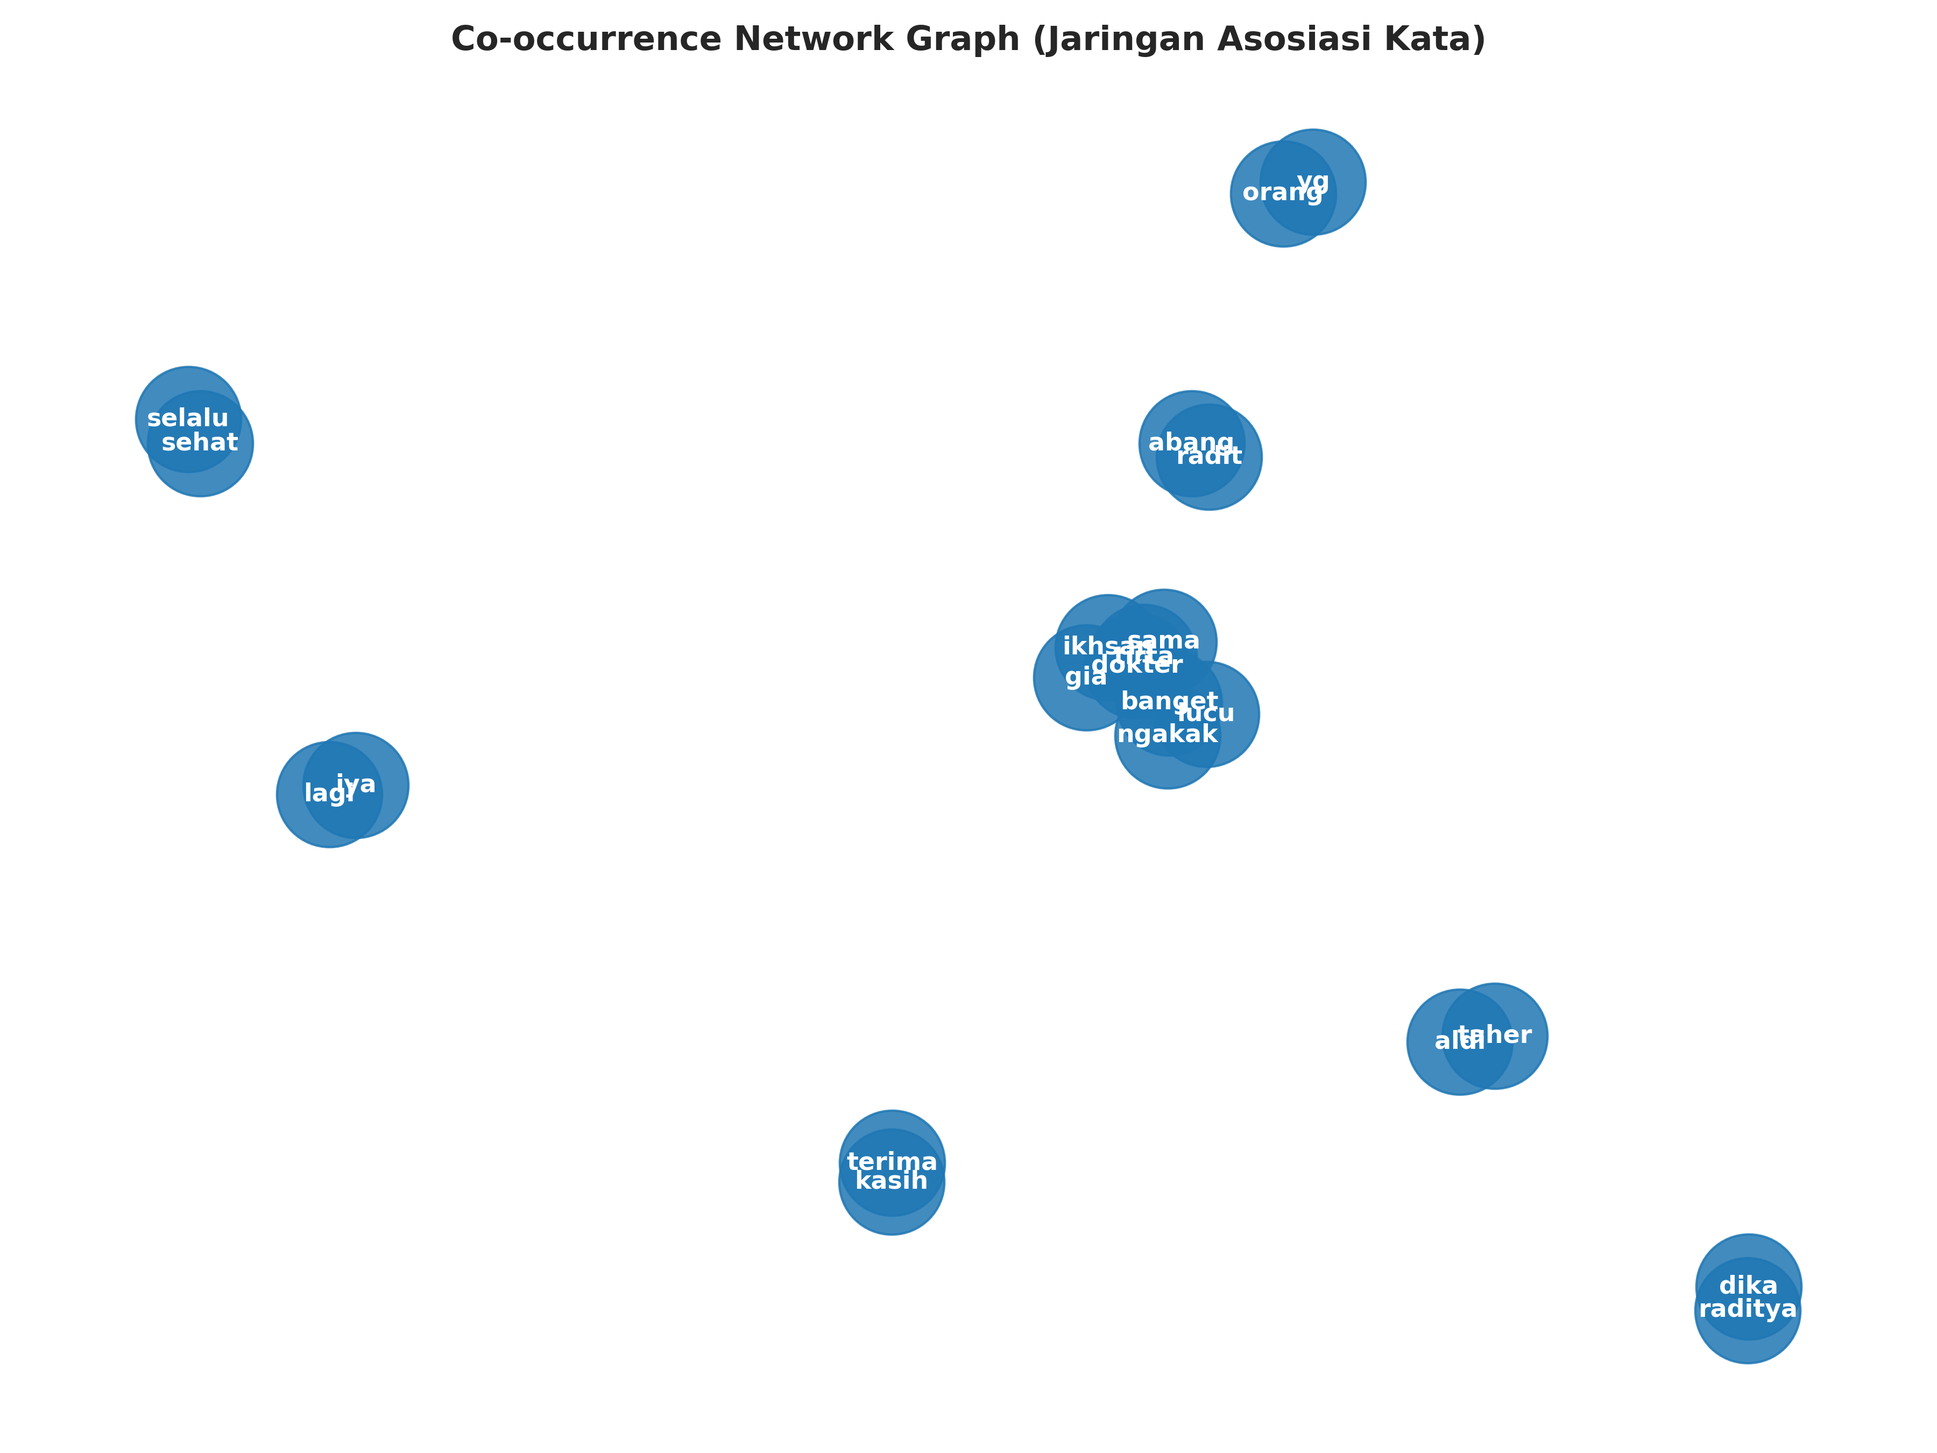
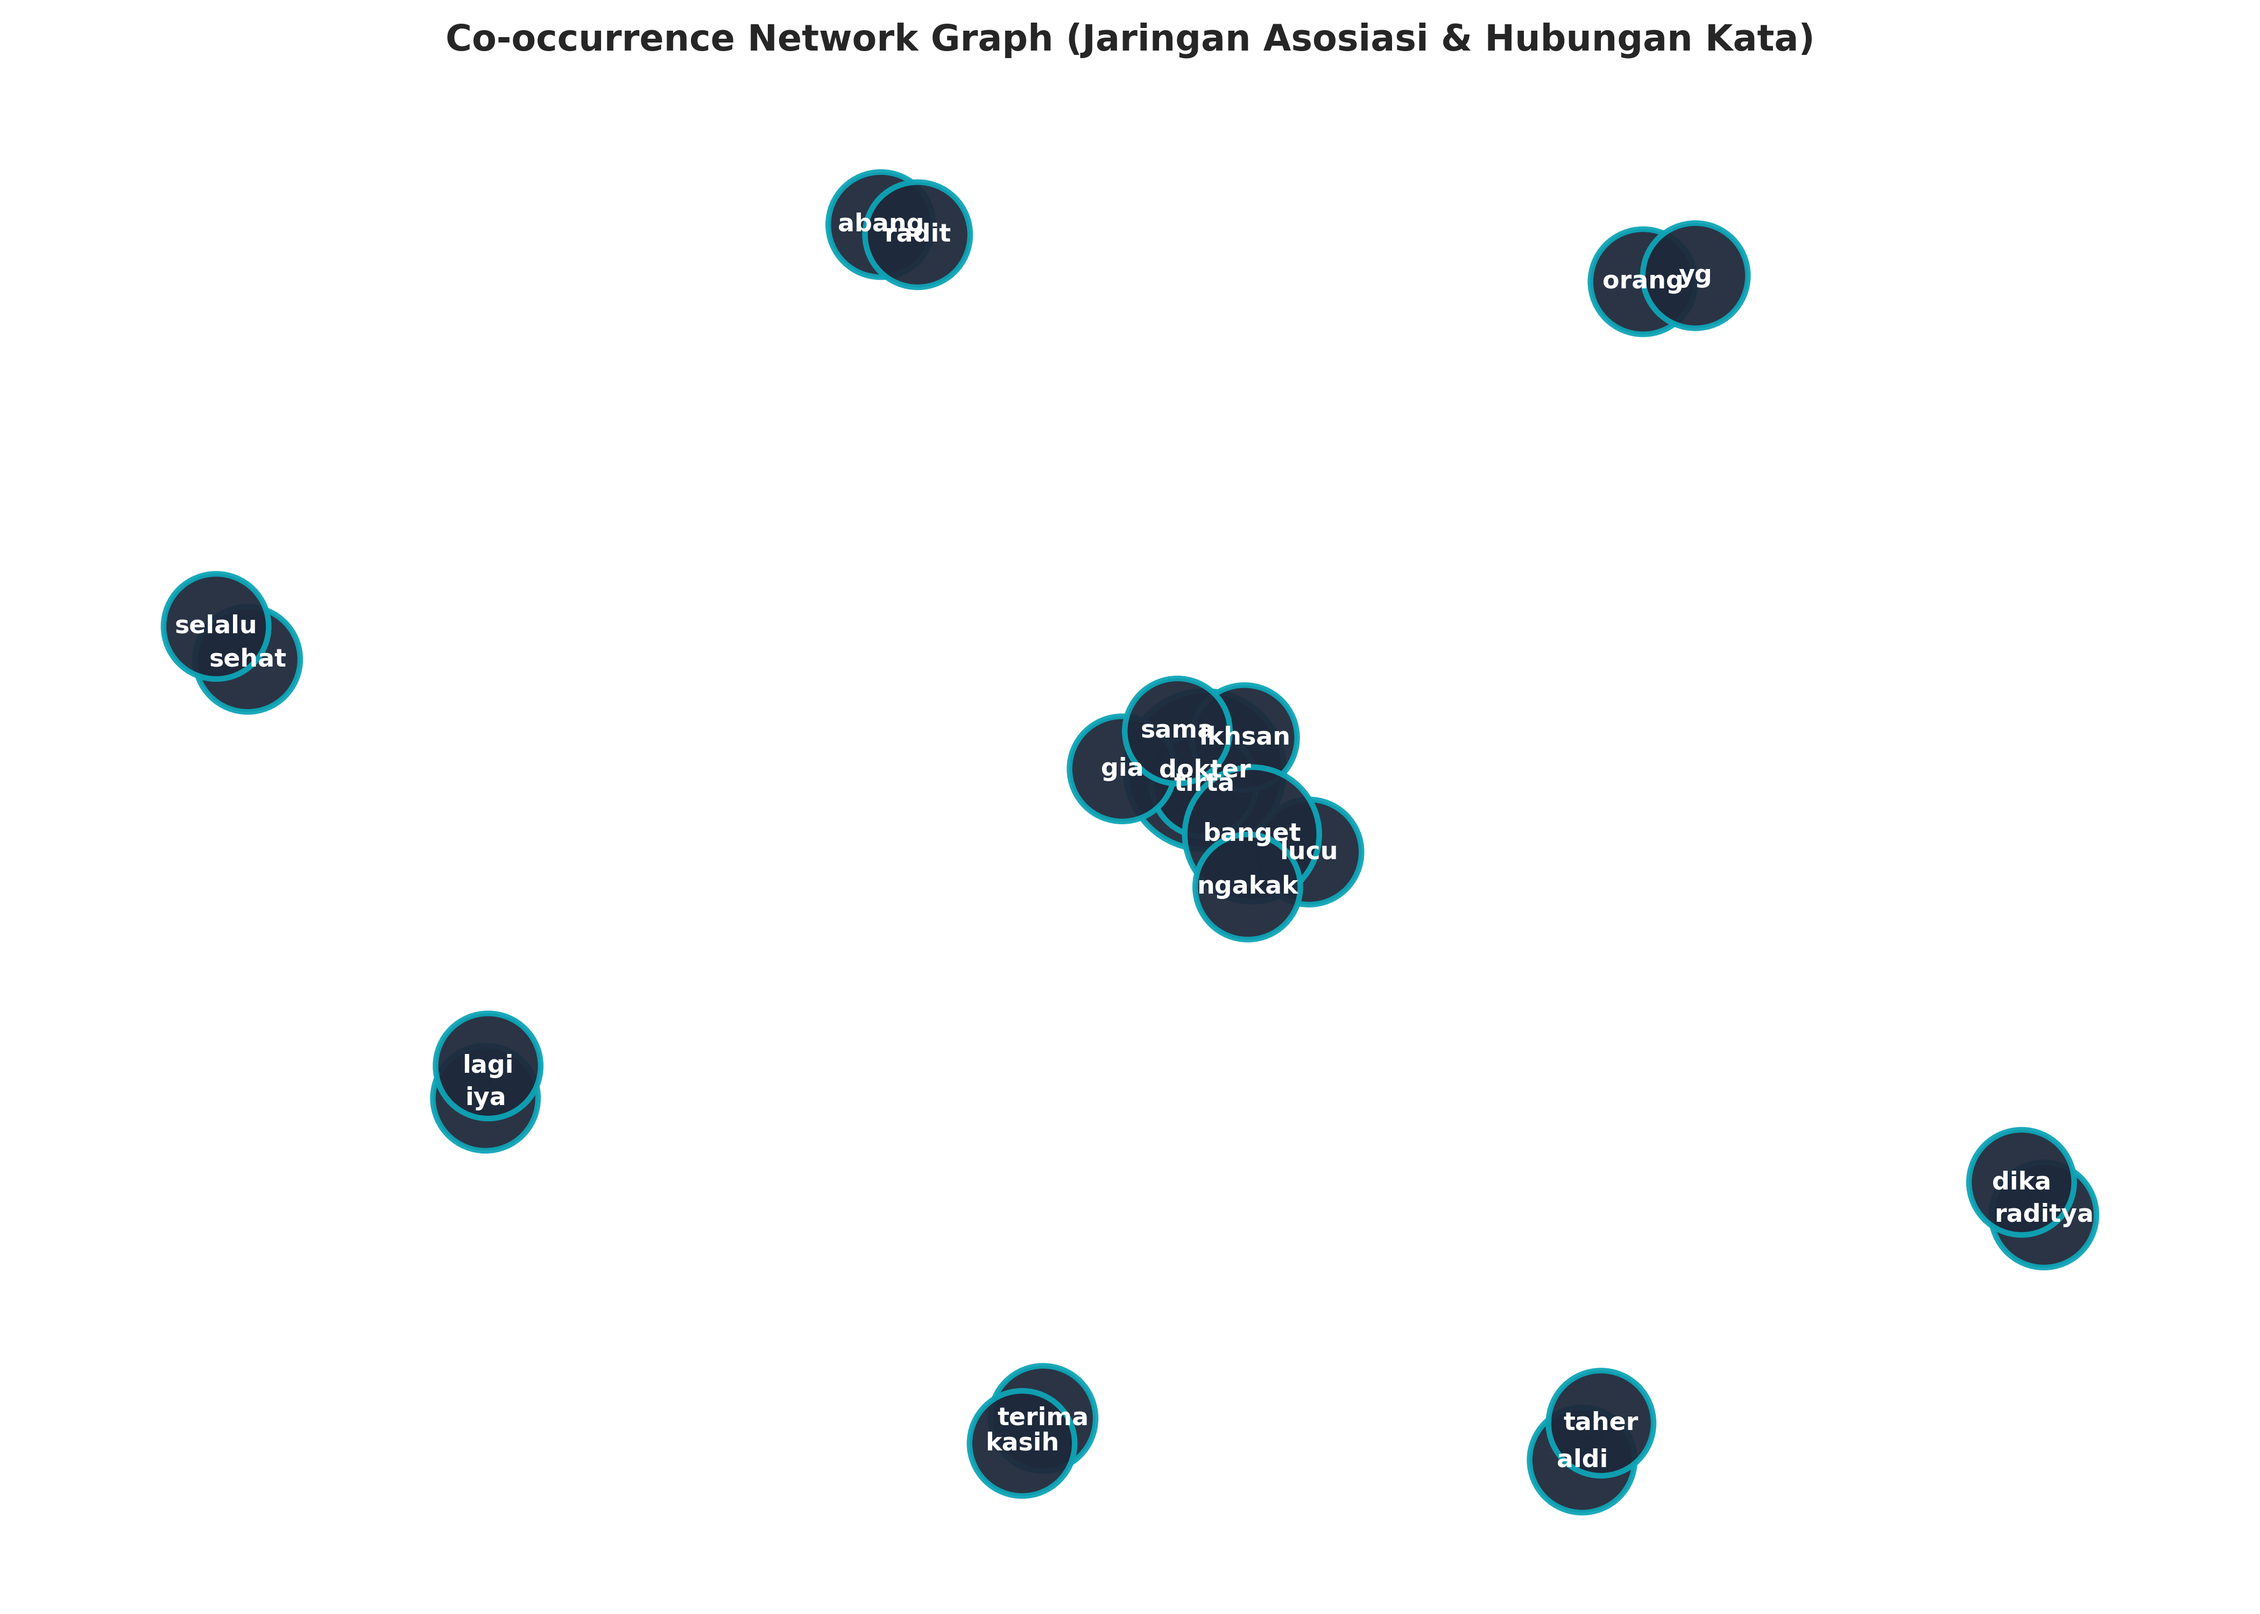
Enhance Co-occurrence Network Graph with thick cyan edges and weight labels

diff --git a/text_exploration.py b/text_exploration.py
@@ -112,24 +112,37 @@ def main():
     plt.savefig('output_plots/tfidf_top_features.png', dpi=300)
     plt.close()
     
-    # 7. VISUALIZATION 4: Co-occurrence Network Graph
+    # 7. VISUALIZATION 4: Co-occurrence Network Graph (Enhanced High-Visibility Edges)
     print("Generating Co-occurrence Network Graph...")
     # Get top 20 bigrams to construct network graph
     G = nx.Graph()
-    for bigram, count in top_bigrams[:25]:
+    for bigram, count in top_bigrams[:20]:
         words = bigram.split()
         if len(words) == 2:
             G.add_edge(words[0], words[1], weight=count)
             
-    plt.figure(figsize=(12, 9))
-    pos = nx.spring_layout(G, k=0.5, seed=42)
-    weights = [G[u][v]['weight'] / max([d['weight'] for u, v, d in G.edges(data=True)]) * 5 for u, v in G.edges()]
+    plt.figure(figsize=(14, 10))
+    pos = nx.spring_layout(G, k=0.8, seed=42)
     
-    nx.draw_networkx_nodes(G, pos, node_size=2200, node_color='#1f77b4', alpha=0.85)
-    nx.draw_networkx_edges(G, pos, width=weights, edge_color='#888888', alpha=0.6)
-    nx.draw_networkx_labels(G, pos, font_size=11, font_color='white', font_weight='bold')
+    max_weight = max([d['weight'] for u, v, d in G.edges(data=True)]) if G.edges() else 1
+    # Line width scaled between 2.0 and 8.0 for high visibility
+    edge_widths = [2.0 + (G[u][v]['weight'] / max_weight) * 6.0 for u, v in G.edges()]
+    node_sizes = [1500 + G.degree(n) * 700 for n in G.nodes()]
     
-    plt.title('Co-occurrence Network Graph (Jaringan Asosiasi Kata)', fontsize=15, fontweight='bold')
+    # Draw thick vibrant cyan/teal edges
+    nx.draw_networkx_edges(G, pos, width=edge_widths, edge_color='#0EA5B7', alpha=0.85)
+    
+    # Draw nodes
+    nx.draw_networkx_nodes(G, pos, node_size=node_sizes, node_color='#1E293B', alpha=0.95, edgecolors='#0EA5B7', linewidths=2.5)
+    
+    # Draw node labels
+    nx.draw_networkx_labels(G, pos, font_size=11, font_color='white', font_family='sans-serif', font_weight='bold')
+    
+    # Draw edge weight labels (numerical connection strengths)
+    edge_labels = {(u, v): f"{d['weight']}" for u, v, d in G.edges(data=True)}
+    nx.draw_networkx_edge_labels(G, pos, edge_labels=edge_labels, font_size=9, font_color='#0284c7', font_weight='bold', bbox=dict(boxstyle='round,pad=0.2', facecolor='white', edgecolor='#e2e8f0', alpha=0.9))
+    
+    plt.title('Co-occurrence Network Graph (Jaringan Asosiasi & Hubungan Kata)', fontsize=16, fontweight='bold', pad=20)
     plt.axis('off')
     plt.tight_layout()
     plt.savefig('output_plots/co_occurrence_network.png', dpi=300)

diff --git a/build_docx_report.py b/build_docx_report.py
@@ -555,8 +555,14 @@ def build_word_document():
     add_p("Laporan disusun komprehensif untuk memenuhi seluruh syarat Ujian Akhir Semester TToS Juli 2026.", align=WD_ALIGN_PARAGRAPH.CENTER, italic=True)
 
     output_filename = "23611091_Muhammad Hafidz Rabbaanii Sulthon_UAS_TToS.docx"
-    doc.save(output_filename)
-    print(f"Document successfully created and saved as '{output_filename}'!")
+    try:
+        doc.save(output_filename)
+        print(f"Document successfully created and saved as '{output_filename}'!")
+    except PermissionError:
+        print(f"Warning: '{output_filename}' is currently open in Microsoft Word. Saving copy...")
+        output_filename = "23611091_Muhammad Hafidz Rabbaanii Sulthon_UAS_TToS_Updated.docx"
+        doc.save(output_filename)
+        print(f"Document saved as '{output_filename}'!")
 
 if __name__ == "__main__":
     build_word_document()
